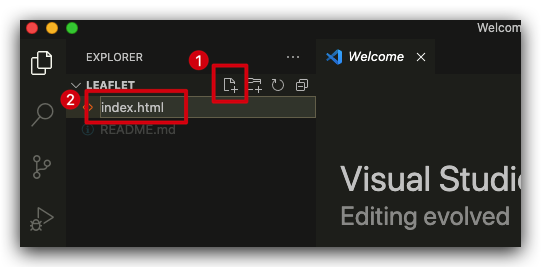
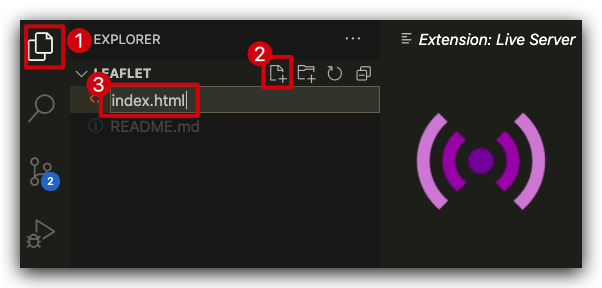
lab update

Changed region(s): [[0.0296, 0.0599, 0.976, 0.9588], [0.5619, 0.1199, 0.5915, 0.1498]]

diff --git a/lab.md b/lab.md
@@ -34,6 +34,7 @@ Once installed, you will be able to open an .html file, and click on the "go liv
 
 ## Create your first html page
 
+1. Click on the `File Explorer` tab
 1. Click on `New file` icon
 1. Enter `index.html` as the file name
 
@@ -42,7 +43,6 @@ Once installed, you will be able to open an .html file, and click on the "go liv
 The file should popup as an empty tab on the right. Enter (copy and paste) the following code:
 
 ```html
-<!DOCTYPE html>
 <html>
 <head>
 	<title>Hello World</title>
@@ -67,6 +67,9 @@ The file should popup as an empty tab on the right. Enter (copy and paste) the f
 		My Footer
 	</div>
 
+	<!-- javascript -->
+	<script src="js/map.js"></script>
+	
 </body>
 </html>
 ```
@@ -96,7 +99,7 @@ Click on the `console` tab
 
 ## Create a css stylesheet file
 
-As noted, the html code assumes you have a css file.
+As noted, the html code assumes you have a css file named `style.css` and a javascript file named `map.js`. Create the css file first:
 
 1. Click on the create new folder button
 1. Name the folder `css`
@@ -146,7 +149,7 @@ body {
 }
 ```
 
-Save the file, and refresh your browser page that has `index.html`
+Save the file, and refresh your browser page (if it hasn't done so automatically) that has `index.html`.
 
 > How did the css file affect the page?
 > 1. The text in your header is now black on a dark background. Change the text color to white (hint: use `font-color`)
